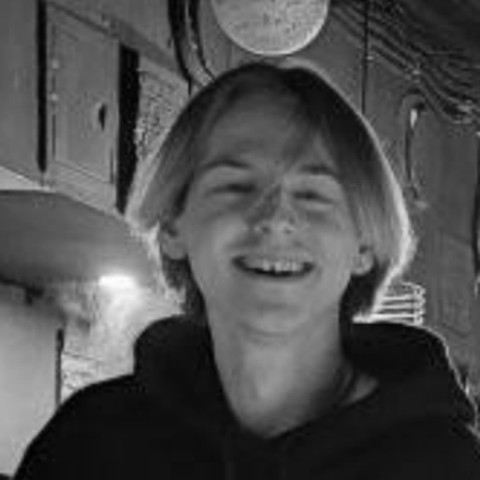
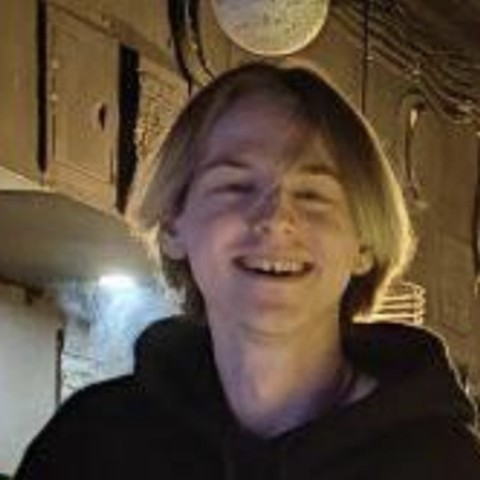
fix(pit-stop): все фото победителей в цвете

diff --git a/frontend/app/components/pit-stop/PitStopWinnersPodium.vue b/frontend/app/components/pit-stop/PitStopWinnersPodium.vue
@@ -117,8 +117,8 @@ export type PodiumWinner = {
  */
 const WINNER_PHOTOS: Record<number, string> = {
   2533: '/events/pit-stop-14/winners/rank-1.jpg?v=1',
-  2680: '/events/pit-stop-14/winners/rank-2.jpg?v=2',
-  2697: '/events/pit-stop-14/winners/rank-3.jpg?v=1'
+  2680: '/events/pit-stop-14/winners/rank-2.jpg?v=3',
+  2697: '/events/pit-stop-14/winners/rank-3.jpg?v=2'
 };
 
 const props = defineProps<{

diff --git a/docs/CHANGELOG.md b/docs/CHANGELOG.md
@@ -4,6 +4,11 @@
 
 ## 2026-10-13
 
+### Pit Stop — все фото победителей в цвете
+
+- Фото 2 и 3 места были в ч/б по прежней просьбе, теперь тоже в цвете — тот же кроп, просто без конвертации в grayscale.
+- Кеш-версия в `WINNER_PHOTOS` бампнута (`rank-2.jpg?v=3`, `rank-3.jpg?v=2`).
+
 ### Pit Stop — кеш-версия у фото победителей (?v=)
 
 - Баг: у `WINNER_PHOTOS` в `frontend/app/components/pit-stop/PitStopWinnersPodium.vue` не было `?v=` в путях (в отличие от `PODIUM_IMG`/`FLAG_VIDEO`). После замены фото 2 места новый файл задеплоился корректно (проверено на сервере, байт-в-байт совпадает с коммитом), но у заказчика браузер продолжал отдавать старую версию по тому же URL из кеша — выглядело как «деплой не сработал».
